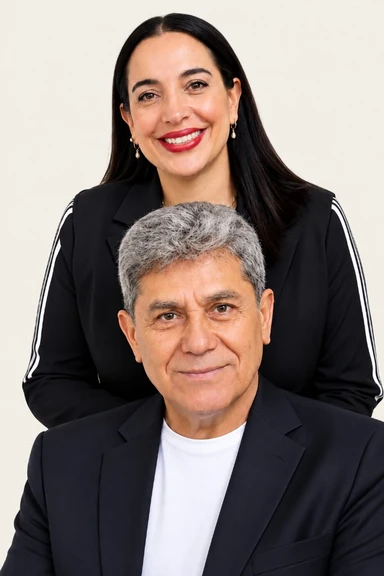
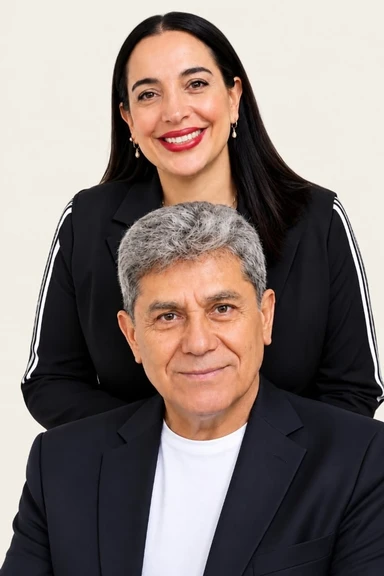
version final

diff --git a/data/ministros.ts b/data/ministros.ts
@@ -44,4 +44,4 @@ export function ministerSizes(variant: PortraitVariant): string {
  * `scripts/optimize-ministros-images.mjs` al regenerar.
  */
 export const MINISTER_LEAD_LQIP =
[2 lines of base64/hex data omitted]

diff --git a/components/EquipoMinisterialSection.tsx b/components/EquipoMinisterialSection.tsx
@@ -66,6 +66,16 @@ function fadeOnly(delay: number) {
   };
 }
 
+/** Foto lead en reposo: mismo recorte redondeado que producción (también con reduced motion). */
+const pastorsPhotoFrameStatic = {
+  hidden: { opacity: 0 },
+  visible: {
+    opacity: 1,
+    clipPath: "inset(0% 0% 0% 0% round 1.75rem)",
+    transition: { duration: 0.35, delay: T.photo, ease: "linear" as const },
+  },
+};
+
 function maskRise(delay: number, distance = "100%") {
   return {
     hidden: { y: distance, opacity: 0 },
@@ -385,7 +395,7 @@ const EquipoMinisterialSection: React.FC = () => {
             />
 
             <motion.div
-              variants={reduceMotion ? fadeOnly(T.photo) : pastorsPhotoFrame}
+              variants={reduceMotion ? pastorsPhotoFrameStatic : pastorsPhotoFrame}
               className="relative will-change-transform"
             >
               <PdcMinisterPortrait
